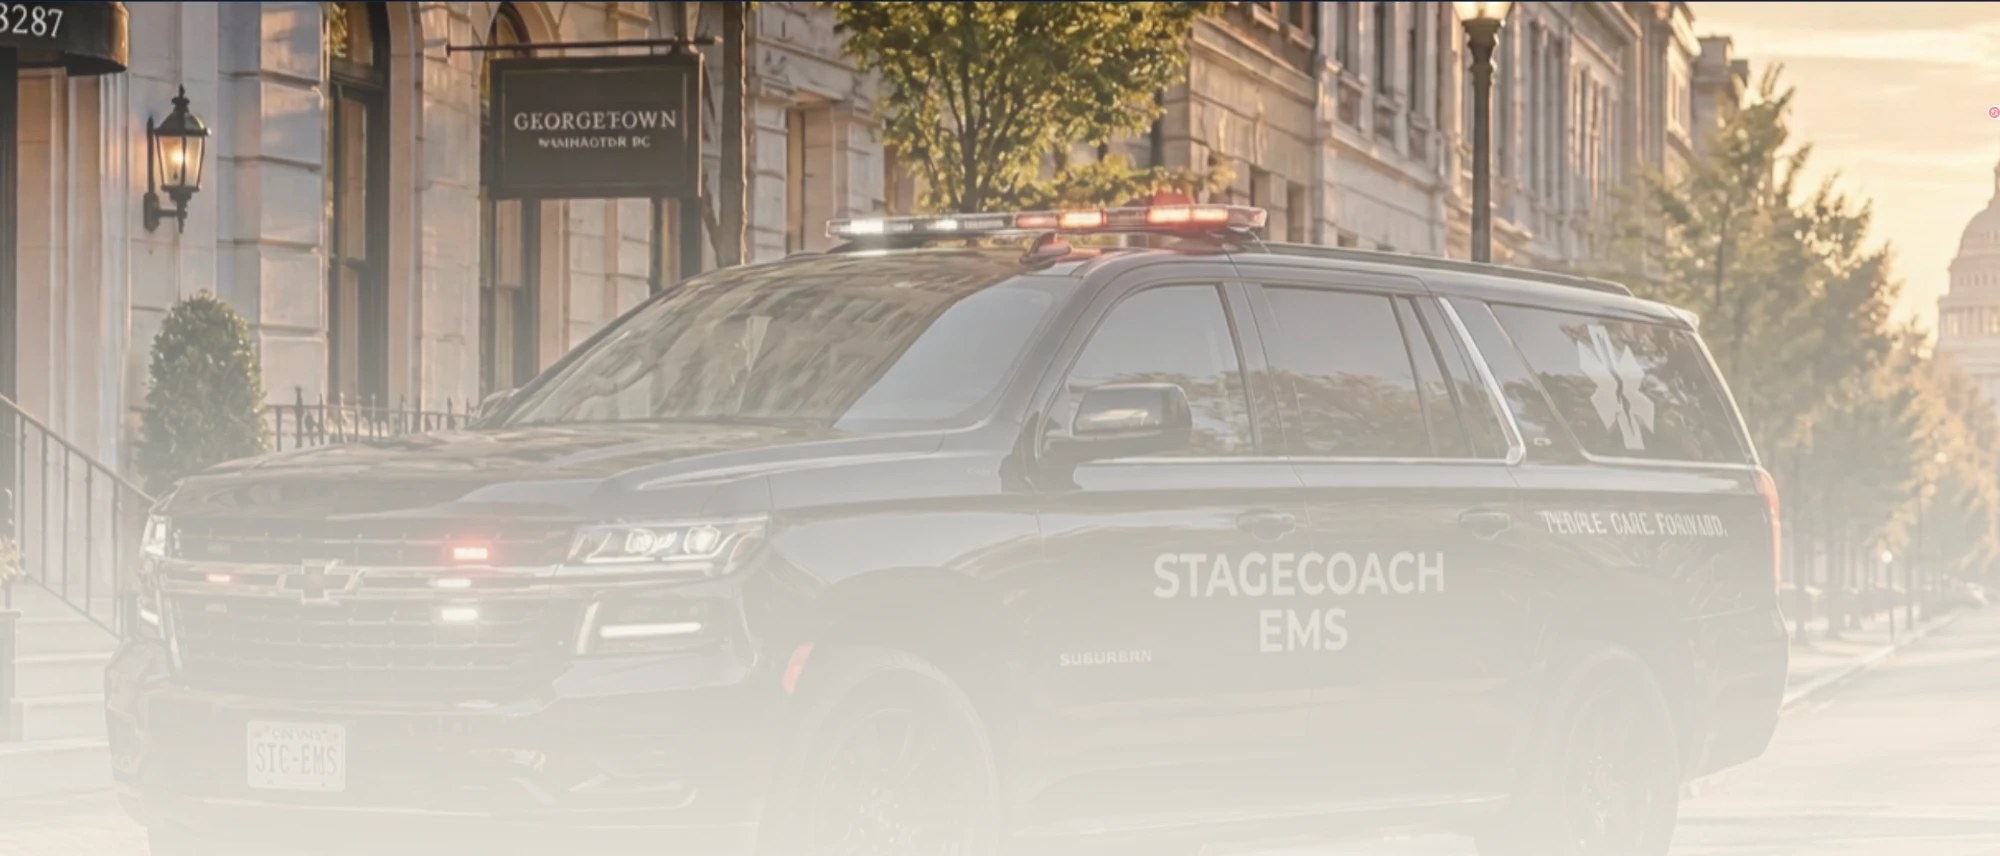
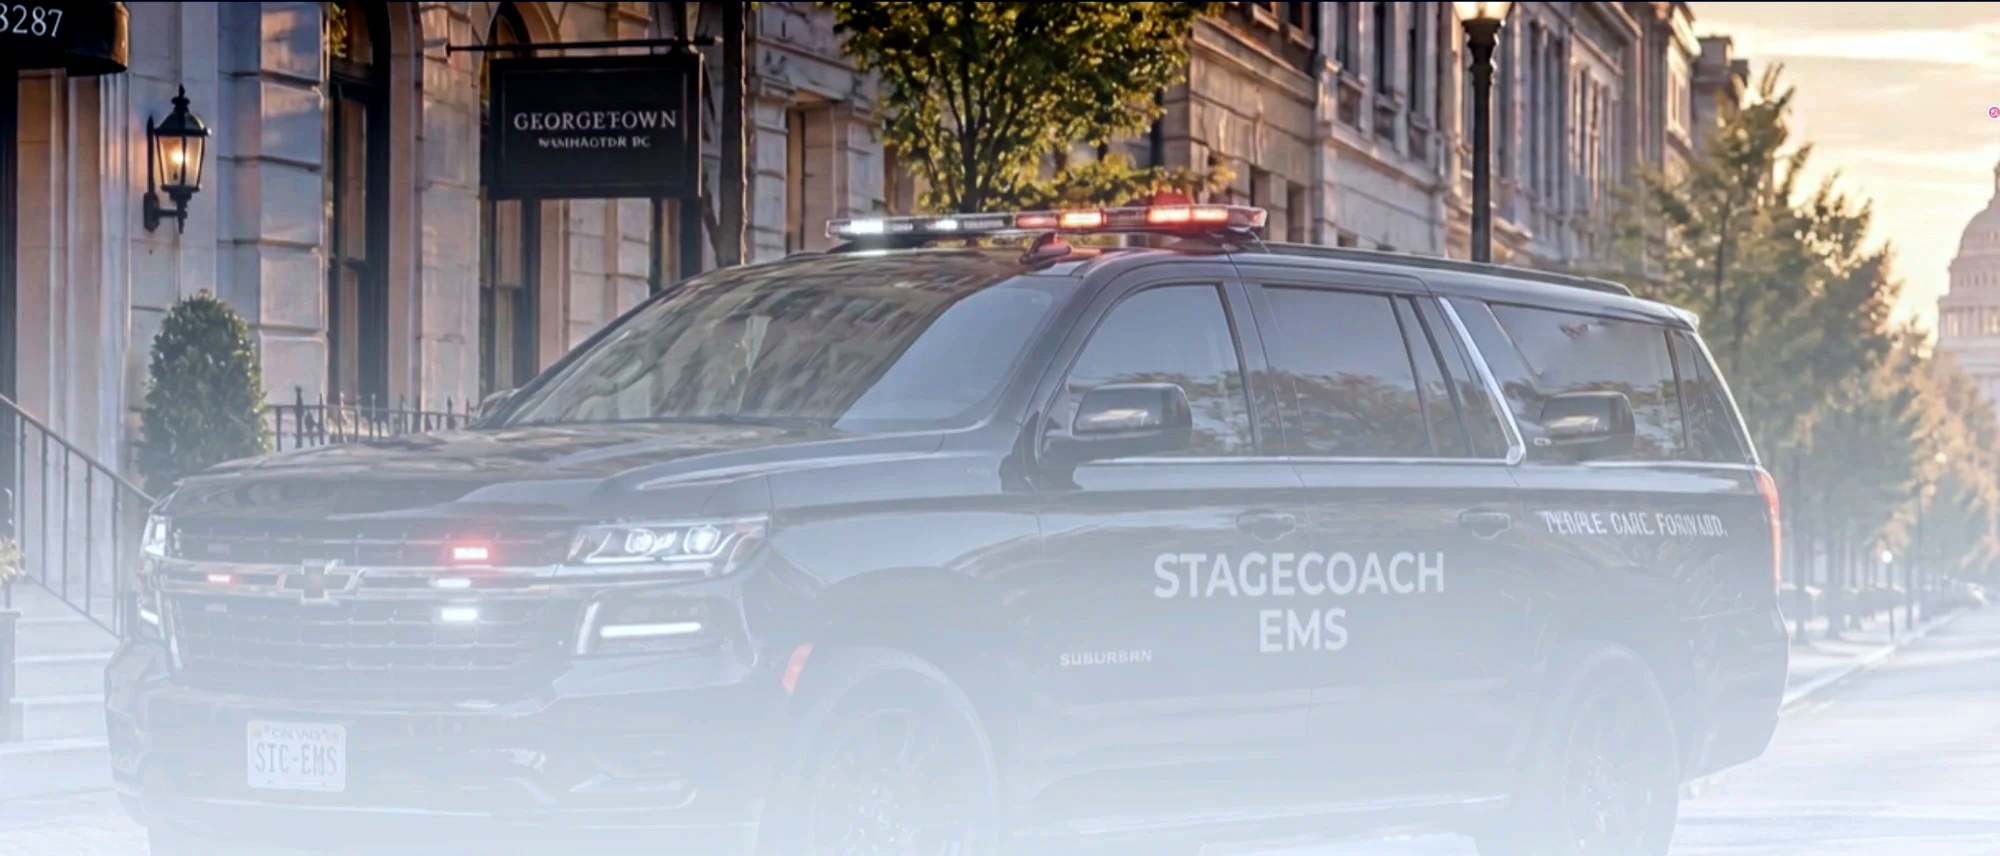
Stagecoach: warmer Executive image, restored hero contrast
Replaces the dark storm-sky fleet render on the Executive card with a
golden-hour crop of the client's Georgetown street photo (trees, lantern,
facade, dome; no vehicle markings). The hero now uses a contrast-restored
version of the same photo, with the rear-window marking patched.

Claude-Session: https://claude.ai/code/session_015fMia5NcdyMhUsqYujTP1i

diff --git a/stagecoach/index.html b/stagecoach/index.html
@@ -148,7 +148,7 @@
       <span class="txt"><span class="fig">Events</span><span class="place">Events</span><strong>A medical team at your&nbsp;event.</strong><span class="body">Galas, film sets, conferences and big crowds. We plan ahead and blend&nbsp;in.</span></span>
       <span class="go" aria-hidden="true">→</span></a></li>
     <li class="row rise"><a href="membership.html#tiers">
-      <span class="thumb"><img class="dome" src="https://stagecoachmedical.com/__l5e/assets-v1/c641f78a-cbf0-4b65-9ca2-aa0f0a64ad36/fleet.png" alt="" loading="lazy"></span>
+      <span class="thumb"><img src="assets/exec.jpg" alt="" loading="lazy" style="object-position:70% 30%"></span>
       <span class="txt"><span class="fig">Executive</span><span class="place">Executive</span><strong>Private medicine for&nbsp;leaders.</strong><span class="body">Care that fits a busy schedule, working with your security&nbsp;team.</span></span>
       <span class="go" aria-hidden="true">→</span></a></li>
   </ul>

diff --git a/stagecoach/src/home.html b/stagecoach/src/home.html
@@ -98,7 +98,7 @@
       <span class="txt"><span class="fig">Events</span><span class="place">Events</span><strong>A medical team at your&nbsp;event.</strong><span class="body">Galas, film sets, conferences and big crowds. We plan ahead and blend&nbsp;in.</span></span>
       <span class="go" aria-hidden="true">→</span></a></li>
     <li class="row rise"><a href="membership.html#tiers">
-      <span class="thumb"><img class="dome" src="{{B}}c641f78a-cbf0-4b65-9ca2-aa0f0a64ad36/fleet.png" alt="" loading="lazy"></span>
+      <span class="thumb"><img src="assets/exec.jpg" alt="" loading="lazy" style="object-position:70% 30%"></span>
       <span class="txt"><span class="fig">Executive</span><span class="place">Executive</span><strong>Private medicine for&nbsp;leaders.</strong><span class="body">Care that fits a busy schedule, working with your security&nbsp;team.</span></span>
       <span class="go" aria-hidden="true">→</span></a></li>
   </ul>
